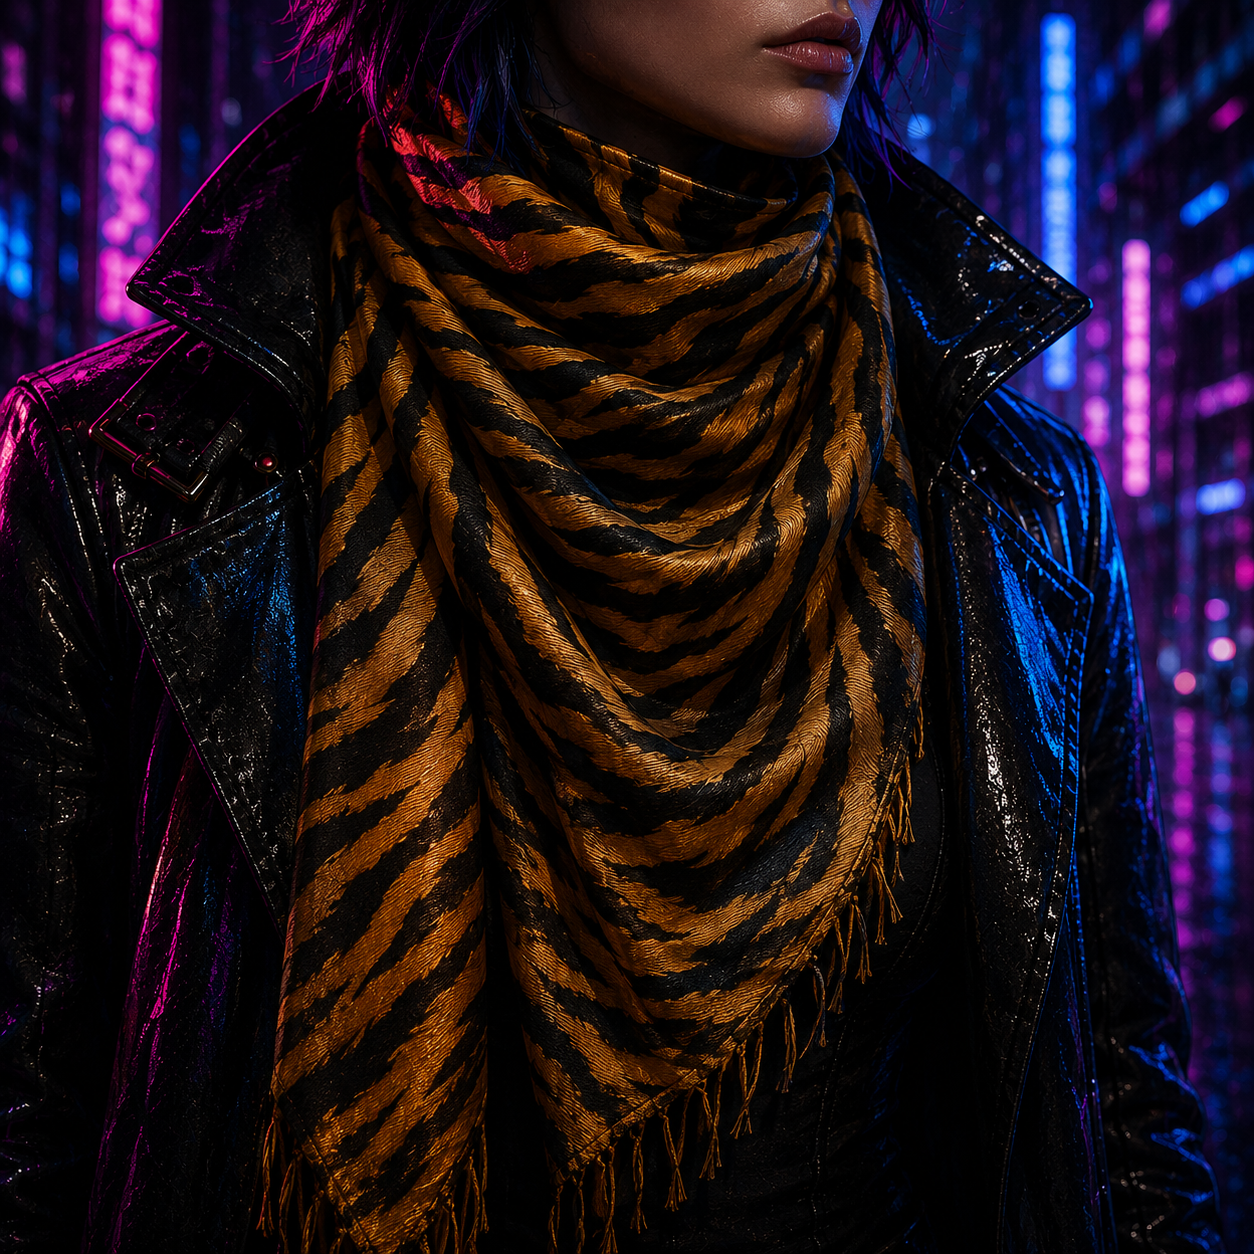
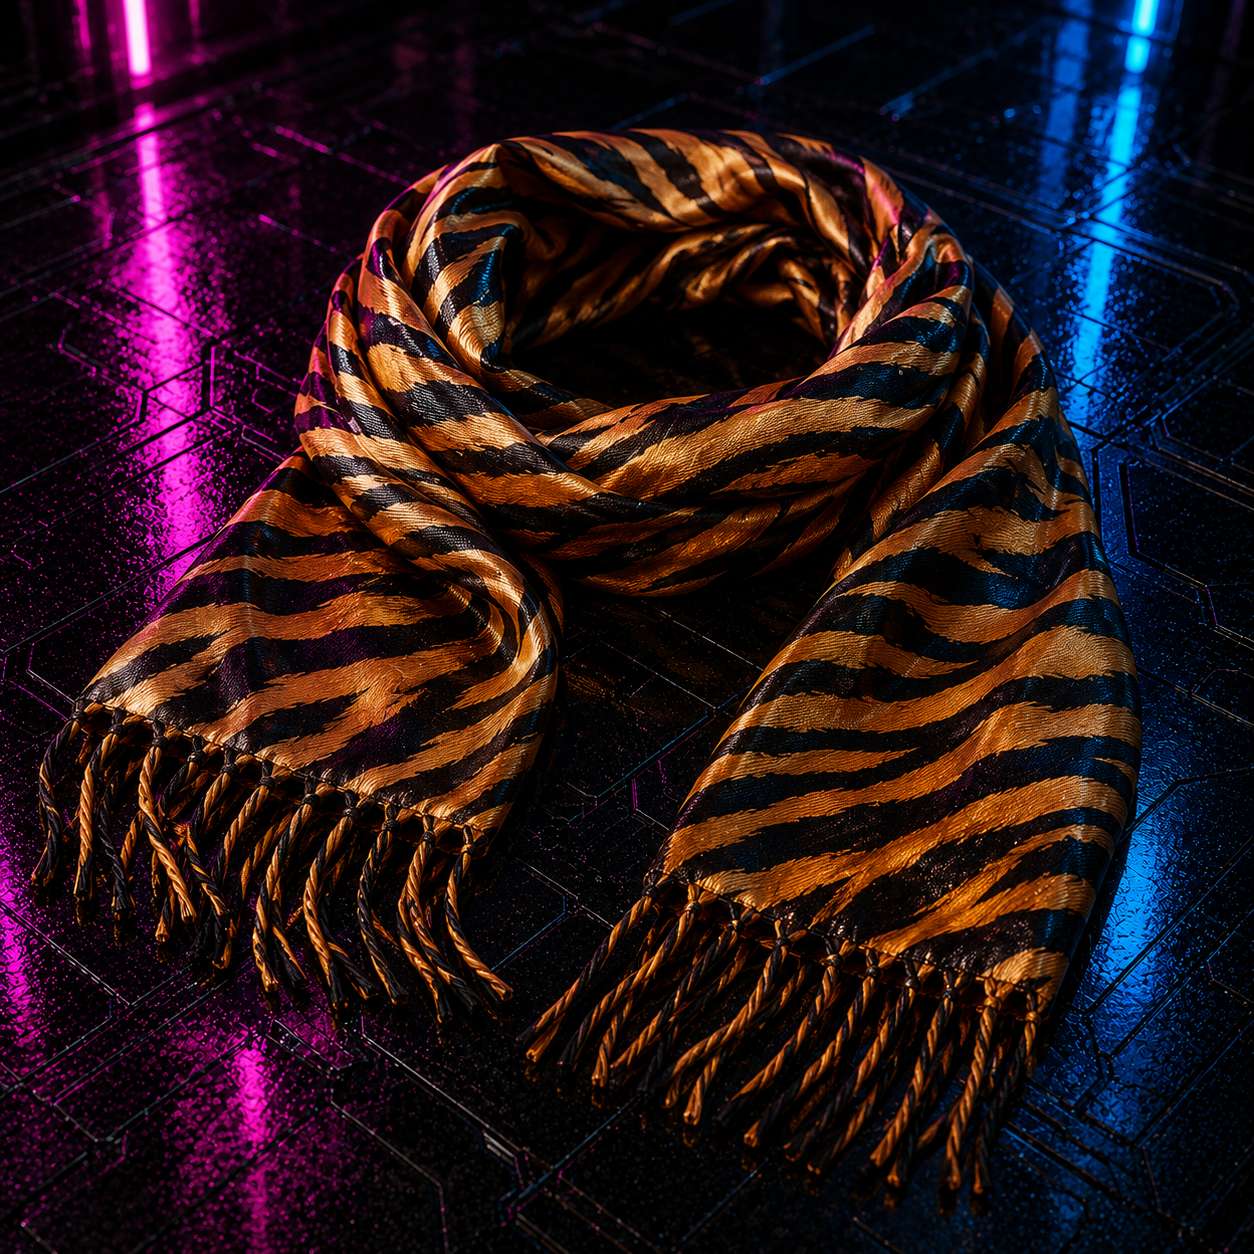
Fixed some items 2

diff --git a/core/src/main/kotlin/com/drcorchit/cards/cyberpunk/CyberpunkCard.kt b/core/src/main/kotlin/com/drcorchit/cards/cyberpunk/CyberpunkCard.kt
@@ -22,14 +22,9 @@ class CyberpunkCard(
     val glam: Int,
     val pizzazz: Int,
     val effect: String? = "Card ability text goes here.",
-    val shiny: Boolean = false
 ) : Drawable {
 
     val costStr = "$cost$"
-
-    val cardSpr = if (shiny) cardShiny else card
-    val textColor = if (shiny) Color.BLACK else Color(.85f, .85f, .85f, 1f)
-    val monoFont = if (shiny) Fonts.statsFontStroke3 else Fonts.statsFont3
 
     val stats =
         mapOf(
@@ -40,7 +35,6 @@ class CyberpunkCard(
         )
             .filter { it.value > 0 }
             .mapValues { String.format("%-8s%d", it.key, it.value) }
-            //.mapValues { it.value.replace(' ', '.') }
 
     private var image: AnimatedSprite? = null
 
@@ -49,7 +43,9 @@ class CyberpunkCard(
 
     companion object {
         val card = Textures.card3.asSprite()
-        val cardShiny = Textures.card3Shiny.asSprite()
+
+        val textColor = Color(.85f, .85f, .85f, 1f)
+        val monoFont = Fonts.statsFont3
 
         val imageX = BORDER + (W / 2f)
         val imageY = BORDER + 950f
@@ -59,34 +55,43 @@ class CyberpunkCard(
         val costX = BORDER + 78f
         val costY = BORDER + H - 95f
 
-        val nameX = BORDER + (W / 2f)
-        val nameY = BORDER + 955f
+        val categoryX = BORDER + (W / 2f)
+        val categoryY = BORDER + 955f
 
-        val categoryX = BORDER + W/2f
-        val categoryY = BORDER + 290f
+        val nameX = BORDER + W / 2f
+        val nameY = BORDER + 290f
+
+        val divider = Textures.divider2.asSprite().setOffset(Compass.CENTER)
+        val dividerX = nameX
+        val dividerY = nameY - 32
+        val dividerW = W * .7f
+        val dividerH = 2f //was dividerW / 20f
 
         val textX = BORDER + 80f
-        val textY = BORDER + 250f
+        val textY = BORDER + 240f
         val textVSep = 35f
 
         val effectX = BORDER + 300f
-        val effectY = BORDER + 250f
+        val effectY = textY
         val effectW = 370f
     }
 
     override fun draw() {
         Draw.drawCardImage(image, imageX, imageY, imageW, imageH)
 
-        cardSpr.draw(batch, BORDER, BORDER, W, H)
+        card.draw(batch, BORDER, BORDER, W, H)
 
         //Cost
         Draw.drawText(costX, costY, Fonts.costFont3, costStr, 1000f, Compass.CENTER, textColor)
 
-        //Name
-        Draw.drawText(nameX, nameY, Fonts.nameFont3, name, 1000f, Compass.CENTER, textColor)
+        //Category
+        Draw.drawText(categoryX, categoryY, Fonts.nameFont3, category.displayName, 1000f, Compass.CENTER, textColor)
 
-        //category
-        Draw.drawText(categoryX, categoryY, Fonts.categoryFont3, category.displayName, 1000f, Compass.CENTER, textColor)
+        //Name
+        Draw.drawText(nameX, nameY, Fonts.categoryFont3, name, 1000f, Compass.CENTER, textColor)
+
+        divider.draw(batch, dividerX, dividerY, dividerW, dividerH)
+
 
         //Stats
         val x = textX

diff --git a/core/src/main/kotlin/com/drcorchit/cards/graphics/Textures.kt b/core/src/main/kotlin/com/drcorchit/cards/graphics/Textures.kt
@@ -37,7 +37,7 @@ object Textures {
 
     val metal = initTexture("metal.jpg")
     val power = initTexture("power.png")
-    val blackHole= initTexture("black_hole.jpg")
+    val blackHole = initTexture("black_hole.jpg")
     val card3Back = initTexture("cardback.jpg")
 
     //card
@@ -65,6 +65,8 @@ object Textures {
     val placard2 = initTexture("placard_shortened.png")
     val screen = initTexture("screen.png")
     val screen2 = initTexture("screen_white.png")
+    val divider = initTexture("divider.png")
+    val divider2 = initTexture("divider2.png")
 
     //Arrow
     val arrowLeft = initTexture("arrow_left.png")

diff --git a/core/src/main/kotlin/com/drcorchit/cards/graphics/Fonts.kt b/core/src/main/kotlin/com/drcorchit/cards/graphics/Fonts.kt
@@ -61,7 +61,6 @@ object Fonts {
     val costFont3 = initFontSize("tulpen_one.ttf", 64)
     val nameFont3 = initFontSize("tulpen_one.ttf", 48)
     val statsFont3 = initFontSize("syne_mono.ttf", 32)
-    val statsFontStroke3 = initFontSizeAndStroke("syne_mono.ttf", 32, 1f, Color.BLACK)
     val categoryFont3 = initFontSize("syne_mono.ttf", 48)
 
     init {
